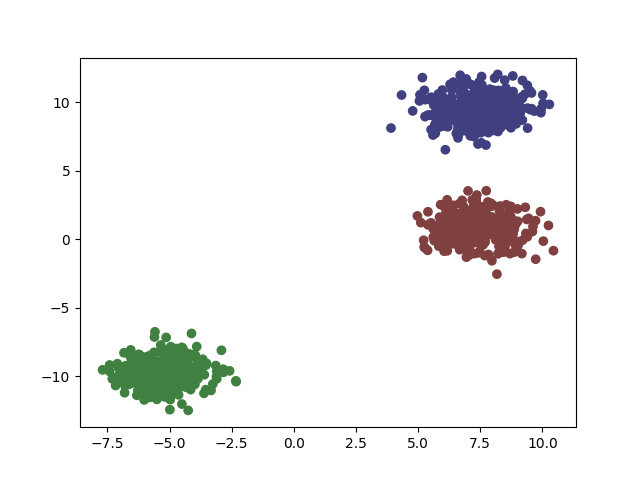
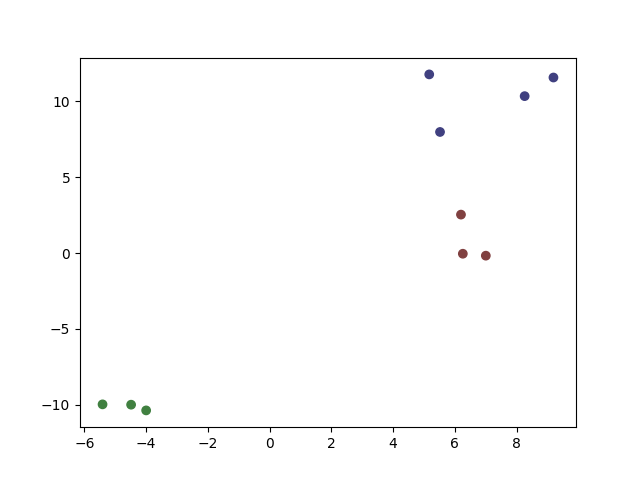
wip: differents merging options + will fix reduce label propagation

diff --git a/main.py b/main.py
@@ -13,6 +13,23 @@ import numba as nb
         make a fast version of NNHC wnich use the centroid of each label group as a point to compare with other centroid
 '''
 
+def reduce_label_propagation(label_propagation_array, distances=None):
+    # remove distances for process if needed
+    propagation_order_array = process_propagation(label_propagation_array)
+    print("propagation_order_array: ", propagation_order_array)
+    if distances is not None:
+        # label_propagation_array[:, 0] and propagation_order_array[:, 0] are the keys to sert indices in the good order
+        # label_propagation_array = [[0, 1], [1, 2], [2, 3], [3, 4], [4, 5]]
+        # propagation_order_array = [[0, 1], [2, 3], [4, 5], [1, 2], [3, 4]]
+        # indices = [0, 3, 1, 4, 2]
+        indices = np.searchsorted(label_propagation_array[:, 0], propagation_order_array[:, 0])
+        # use indices to sort propagation_order_array
+        propagation_order_array = propagation_order_array[indices]
+        # use distances to sort propagation_order_array
+        propagation_order_array = propagation_order_array[np.argsort(distances)]
+
+    return propagation_order_array
+
 @nb.njit(nopython=True)
 def custom_distance(x, y):
     '''
@@ -28,80 +45,190 @@ def custom_distance(x, y):
     '''
     # return np.linalg.norm(x - y)
 
+def get_label_propagation_array_full_nn(x, labels):
+    x_with_labels = np.concatenate((x, labels.reshape(-1, 1)), axis=1)
+    checkpoint_time = time.time()
+    neigh = NearestNeighbors(n_neighbors=1, algorithm="ball_tree", metric=custom_distance).fit(x_with_labels)
+    distances, indices = neigh.kneighbors(x_with_labels, return_distance=True)
+    print("NearestNeighbors time: ", time.time() - checkpoint_time)
+
+    indices = indices.reshape(-1)
+    distances = distances.reshape(-1)
+    neigh_original_indices = np.arange(len(distances))
+
+    all_differents_labels = np.unique(labels)
+
+    # create a label propagation array -> [[source_label, destination_label], ...]
+    label_propagation_array = []
+    label_propagation_distances = []
+
+    # foreach diffrent label, get the point that have the minimum distance with another point
+    for label in all_differents_labels:
+        # get index of points that have the label
+        point_indexes = np.where(labels == label)[0]
+
+        # filter distances using ids_np_int
+        filtered_distances = distances[point_indexes]
+        # find the index of the smallest distance in the filtered array
+        min_distance_index = np.argmin(filtered_distances)
+        # For getting the index in the original array, use original_indices
+        min_distance_original_index = neigh_original_indices[point_indexes[min_distance_index]]
+    
+        # Finaly, we have the value we wants. The point that have a different label and the minimum distance from a point of our label
+        best_target_label = labels[indices[min_distance_original_index]]
+        # We can also get the distance from this target and the source
+        best_distance = distances[min_distance_original_index]
+
+        # add the result to the label propagation array
+        label_propagation_array.append([label, best_target_label])
+        label_propagation_distances.append(best_distance)
+    label_propagation_array = np.array(label_propagation_array)
+    label_propagation_distances = np.array(label_propagation_distances)
+    return reduce_label_propagation(label_propagation_array, distances=label_propagation_distances)
+
+def get_label_propagation_unique_labels(x, labels, sort_distances=False):
+    checkpoint_time = time.time()
+    neigh = NearestNeighbors(n_neighbors=2, algorithm="ball_tree").fit(x)
+
+    if sort_distances:
+        distances, indices = neigh.kneighbors(x, return_distance=True)
+    else:
+        indices = neigh.kneighbors(x, return_distance=False)
+    print("NearestNeighbors time: ", time.time() - checkpoint_time)
+    # keep only the second column of indices and distances
+    indices = indices[:, 1]
+    label_propagation_array = labels[indices]
+    label_propagation_array = np.concatenate((labels.reshape(-1, 1), label_propagation_array.reshape(-1, 1)), axis=1)
+
+    if sort_distances:
+        distances = distances[:, 1]
+        return reduce_label_propagation(label_propagation_array, distances=distances)
+    else:
+        return reduce_label_propagation(label_propagation_array)
+
+def get_label_propagation_array_centroid(x, labels):
+    # reduce all x to the centroid of each label
+    all_differents_labels = np.unique(labels)
+    centroids = []
+    for label in all_differents_labels:
+        mask = labels == label
+        x_label = x[mask]
+        centroid = np.mean(x_label, axis=0)
+        centroids.append(centroid)
+    centroids = np.array(centroids)
+    return get_label_propagation_unique_labels(centroids, all_differents_labels, sort_distances=True)
+
+def get_label_propagation_array_nn_splitted_centroid(x, labels):
+    # reduce all x to the centroid of each label
+    all_differents_labels = np.unique(labels)
+    centroids = []
+    for label in all_differents_labels:
+        mask = labels == label
+        x_label = x[mask]
+        centroid = np.mean(x_label, axis=0)
+        centroids.append(centroid)
+    label_propagation_array = []
+    label_propagation_distances = []
+    all_differents_labels_len = len(all_differents_labels)
+    for i in range(all_differents_labels_len):
+        label_1 = all_differents_labels[i]
+        best_target_label = None
+        best_distance = np.inf
+        for j in range(all_differents_labels_len):
+            label_2 = all_differents_labels[j]
+            if label_1 == label_2:
+                continue
+            centroid_1 = centroids[i]
+            centroid_2 = centroids[j]
+            nearest_l1_point_from_l2_centroid = x[labels == label_1][np.argmin(np.linalg.norm(x[labels == label_1] - centroid_2, axis=1))]
+            nearest_l2_point_from_l1_centroid = x[labels == label_2][np.argmin(np.linalg.norm(x[labels == label_2] - centroid_1, axis=1))]
+            nearest_l1_point_from_nearest_l2_point_from_l1_centroid = x[labels == label_1][np.argmin(np.linalg.norm(x[labels == label_1] - nearest_l2_point_from_l1_centroid, axis=1))]
+            nearest_l2_point_from_nearest_l1_point_from_l2_centroid = x[labels == label_2][np.argmin(np.linalg.norm(x[labels == label_2] - nearest_l1_point_from_l2_centroid, axis=1))]
+            # get both distances
+            distance_1 = np.linalg.norm(nearest_l1_point_from_l2_centroid - nearest_l1_point_from_nearest_l2_point_from_l1_centroid)
+            distance_2 = np.linalg.norm(nearest_l2_point_from_l1_centroid - nearest_l2_point_from_nearest_l1_point_from_l2_centroid)
+            # get the best distance
+            if distance_1 < best_distance:
+                best_distance = distance_1
+                best_target_label = label_2
+            if distance_2 < best_distance:
+                best_distance = distance_2
+                best_target_label = label_1
+        label_propagation_array.append([label_1, best_target_label])
+        label_propagation_distances.append(best_distance)
+    label_propagation_array = np.array(label_propagation_array)
+    label_propagation_distances = np.array(label_propagation_distances)
+    print(label_propagation_array)
+    print(label_propagation_array.shape)
+    print(label_propagation_distances.shape)
+    return reduce_label_propagation(label_propagation_array, label_propagation_distances)
+
+def get_label_propagation_array_full_nn_splitted(x, labels):
+    checkpoint_time = time.time()
+    all_differents_labels = np.unique(labels)
+    label_propagation_array = []
+    indexes = np.arange(len(labels))
+    label_propagation_distances = []
+    for label in all_differents_labels:
+        # get index of points that have the label
+        mask = labels == label
+        x_label = x[mask]
+        x_not_label = x[~mask]
+        x_not_label_indexes = indexes[~mask]
+        neigh = NearestNeighbors(n_neighbors=1, algorithm="ball_tree").fit(x_not_label)
+        distances, indices = neigh.kneighbors(x_label, return_distance=True)
+        distances = distances.reshape(-1)
+        indices = indices.reshape(-1)
+
+        min_distance_index = np.argmin(distances)
+        x_not_label_index = x_not_label_indexes[indices[min_distance_index]]
+    
+        # Finaly, we have the value we wants. The point that have a different label and the minimum distance from a point of our label
+        best_target_label = labels[x_not_label_index]
+        # We can also get the distance from this target and the source
+        best_distance = distances[min_distance_index]
+
+        # add the result to the label propagation array
+        label_propagation_array.append([label, best_target_label])
+        label_propagation_distances.append(best_distance)
+    print("NearestNeighbors time: ", time.time() - checkpoint_time)
+    label_propagation_array = np.array(label_propagation_array)
+    label_propagation_distances = np.array(label_propagation_distances)
+    return reduce_label_propagation(label_propagation_array, distances=label_propagation_distances)
+
+
 class NNHC:
     def __init__(self, n_clusters=2):
         self.n_clusters = n_clusters
 
     def fit(self, x):
         x = np.array(x)
-        # add index in the last column
-        x = np.concatenate((x, np.arange(len(x)).reshape(-1, 1)), axis=1)
-        # add label in the last column
-        x = np.concatenate((x, np.arange(len(x)).reshape(-1, 1)), axis=1)
+        labels = np.arange(len(x));
         
+        i = 0
         while True:
-            # get all differents labels without duplicates in x
-            '''
-                Here is the problem, check at custom_distance method
-            '''
-            x_without_ids = np.delete(x, -2, axis=1)
-            checkpoint_time = time.time()
-            neigh = NearestNeighbors(n_neighbors=1, algorithm="ball_tree", metric=custom_distance).fit(x_without_ids)
-            distances, indices = neigh.kneighbors(x_without_ids, return_distance=True)
-            print("NearestNeighbors time: ", time.time() - checkpoint_time)
+            all_differents_labels = np.unique(labels)
+            print("labels count: ", len(all_differents_labels))
 
-            indices = indices.reshape(-1)
-            distances = distances.reshape(-1)
-            neigh_original_indices = np.arange(len(distances))
-
-            all_differents_labels = np.unique(x[:, -1])
-
-            # create a label propagation array -> [[source_label, destination_label], ...]
-            label_propagation_array = []
-
-            # foreach diffrent label, get the point that have the minimum distance with another point
-            for label in all_differents_labels:
-                # get points that have the label
-                points_with_label = x[x[:, -1] == label]
-                # get their ids
-                ids = points_with_label[:, -2]
-                ids_np_int = np.array(ids, dtype=np.int32)
-
-                # filter distances using ids_np_int
-                filtered_distances = distances[ids_np_int]
-                # find the index of the smallest distance in the filtered array
-                min_distance_index = np.argmin(filtered_distances)
-                # For getting the index in the original array, use original_indices
-                min_distance_original_index = neigh_original_indices[ids_np_int[min_distance_index]]
-            
-                # Finaly, we have the value we wants. The point that have a different label and the minimum distance from a point of our label
-                best_target_label = x[indices[min_distance_original_index], -1]
-                # We can also get the distance from this target and the source
-                best_distance = distances[min_distance_original_index]
+            # get the label_propagation_array
+            if i == 0:
+                label_propagation_array = get_label_propagation_unique_labels(x, labels)
+            else:  
+                # label_propagation_array = get_label_propagation_array_centroid(x, labels)
+                # label_propagation_array = get_label_propagation_array_full_nn_splitted(x, labels)
+                # label_propagation_array = get_label_propagation_array_full_nn(x, labels)
+                label_propagation_array = get_label_propagation_array_nn_splitted_centroid(x, labels)
     
-                # add the result to the label propagation array
-                label_propagation_array.append([label, best_target_label, best_distance])
-
-            # reduce the label propagation array to the best label propagation
-            label_propagation_array = np.array(label_propagation_array)
-            propagation_order_array = process_propagation(label_propagation_array[:, :-1])
-
-            # Add distance to propagation_order_array from label_propagation_array where [:, 0] are the same in each array 
-            source_label_to_distance = {label: distance for label, _, distance in label_propagation_array}
-            # add column for distance
-            propagation_order_array = np.concatenate((propagation_order_array, np.zeros((len(propagation_order_array), 1))), axis=1)
-            propagation_order_array[:, 2] = [source_label_to_distance[label] for label in propagation_order_array[:, 0]]
-            # sort by distance
-            propagation_order_array = propagation_order_array[propagation_order_array[:, 2].argsort()]
             # add offset to propagation_order_array
-            propagation_order_array[:, 1] += np.max(x[:, -1]) + 1
+            label_propagation_array[:, 1] += np.max(labels) + 1
 
             current_label_count = len(all_differents_labels)
             new_diffrent_labels = []
             # foreach label propagation, update the label in x
             end = False
-            for source_label, target_label, _ in propagation_order_array:
-                x[x[:, -1] == source_label, -1] = target_label
+            for source_label, target_label in label_propagation_array:
+                # x[x[:, -1] == source_label, -1] = target_label
+                labels[labels == source_label] = target_label
                 current_label_count -= 1
                 if target_label not in new_diffrent_labels:
                     new_diffrent_labels.append(target_label)
@@ -112,8 +239,9 @@ class NNHC:
                     break
             if end:
                 break
+            i += 1
         
-        y = x[:, -1]
+        y = labels
         all_differents_labels = np.unique(y)
         # normalize label using indices (liek 0, 1, 2, 3, 4, ...)
         for i, label in enumerate(all_differents_labels):
@@ -123,12 +251,11 @@ class NNHC:
         return self
 
 if __name__ == "__main__":
-    datasets = get_datasets(n_samples=10000, random_seed=42)
+    datasets = get_datasets(n_samples=32, random_seed=42)
     for dataset_name, (dataset_points, clusters_count) in datasets.items():
         print(f"Clustering {dataset_name} with {clusters_count} clusters")
         nnhc = NNHC(n_clusters=clusters_count)
         nnhc.fit(x=dataset_points)
         color_map = generate_colors(len(nnhc.labels))
         cluster_screenshot(dataset_points, nnhc.y, path=f"outputs/{dataset_name}.png", color_map=color_map, show=False)
-        print("")
-        
+        # break

diff --git a/union_find.py b/union_find.py
@@ -42,5 +42,6 @@ def process_propagation(propagation_array):
     return result_array
 
 if __name__ == "__main__":
-    test = [[1, 2], [2, 1], [3, 4], [5, 4], [6, 2]]
+    test = np.array([[1, 2], [2, 1], [3, 4], [5, 4], [6, 2]])
+    test += 10
     print(process_propagation(test))
